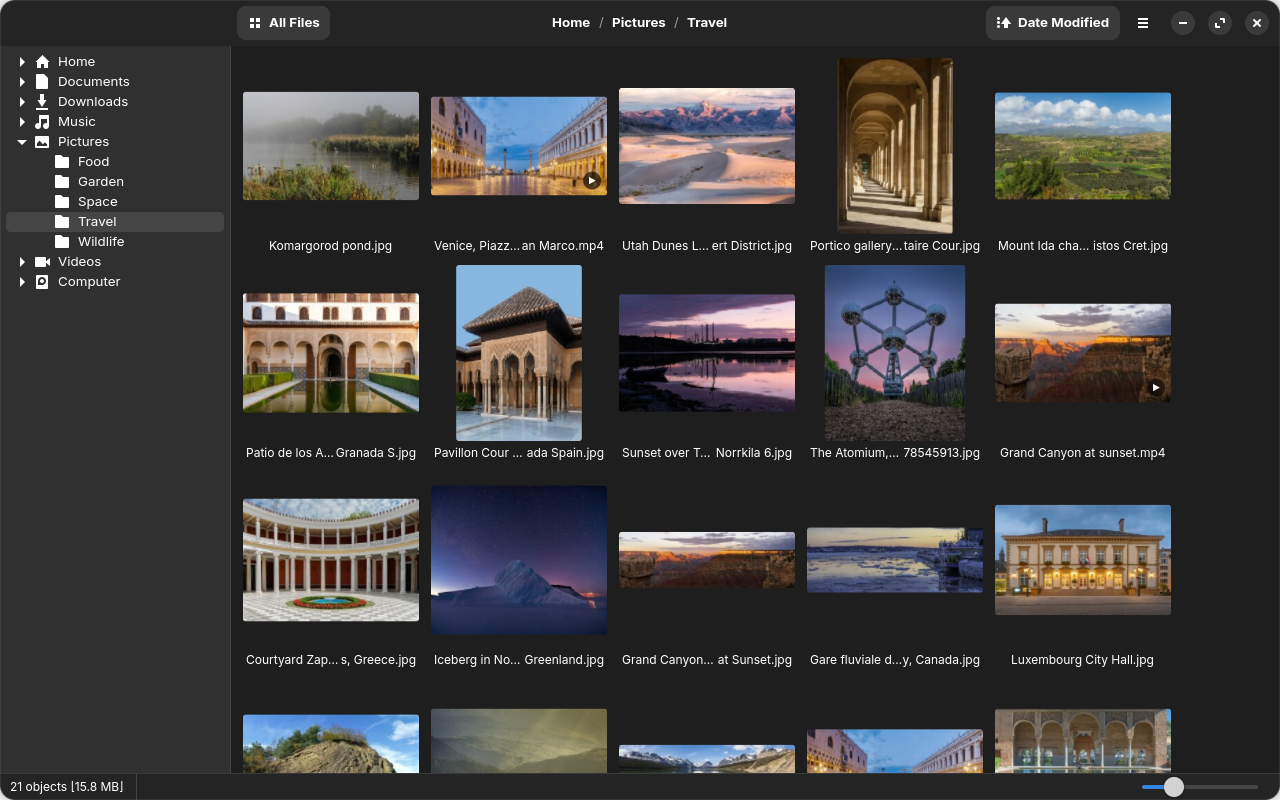
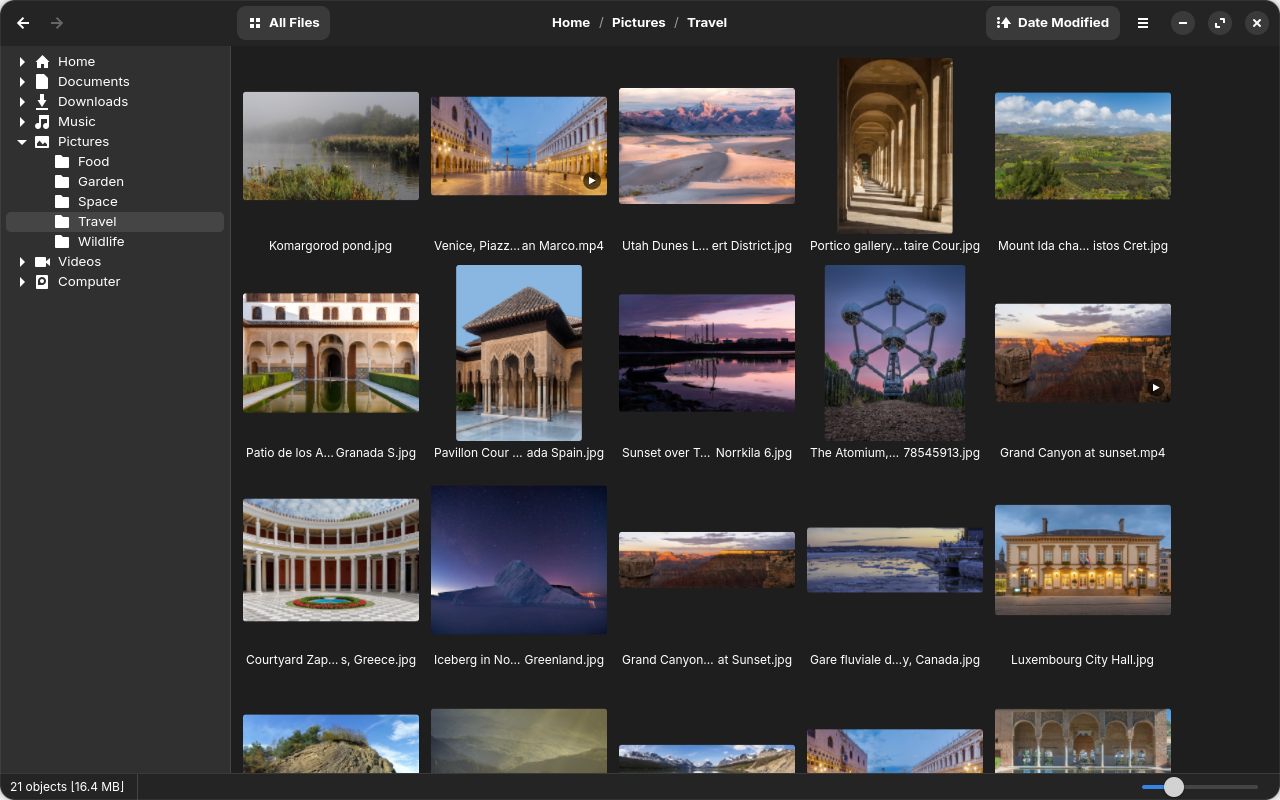
Fix first-launch cache, stray metadata panel, blurry photos opened from outside; new screenshots
- A new thumbnail cache could be disabled for the first session:
  threads opening it together raced on the switch to WAL, which fails at
  once with "database is locked". Set up one connection at a time.
- The fullscreen metadata panel popped up on opening, before the viewer
  had a size; it now needs the pointer over the viewer.
- A photo opened from outside in a small folder could be decoded for a
  1 x 1 screen before the window had a surface (blurry until zoomed);
  fall back to the display's first monitor.
- Screenshots remade with the same Wikimedia Commons photos, showing the
  back and forward buttons.

Changed region(s): [[0.3125, 0.125, 0.5, 0.25], [0.0625, 0.9688, 0.0938, 1.0]]

diff --git a/src/viewer/mod.rs b/src/viewer/mod.rs
@@ -80,6 +80,8 @@ pub struct Viewer {
     /// Item whose camera details the panel holds, and whether it is up.
     camera_for: Cell<u64>,
     camera_up: Cell<bool>,
+    /// The pointer is over the viewer (it has moved there since opening).
+    pointer_in: Cell<bool>,
     /// A RAW item that has stayed on screen a moment, so its development is
     /// worth starting (flicking past RAWs shouldn't tie up the decode threads).
     settled: Cell<u64>,
@@ -166,6 +168,7 @@ impl Viewer {
             show_info: Cell::new(show_info),
             camera_for: Cell::new(0),
             camera_up: Cell::new(false),
+            pointer_in: Cell::new(false),
             settled: Cell::new(0),
             settle_timer: RefCell::default(),
             failed: Cell::new(false),
@@ -281,6 +284,10 @@ impl Viewer {
             timer.remove();
         }
         self.widget.set_cursor(None);
+        self.pointer_in.set(false);
+        if self.camera_up.replace(false) {
+            self.camera.set_visible(false);
+        }
         let item = self.current.take();
         self.cache.borrow_mut().clear();
         self.pool.request(Vec::new());
@@ -716,6 +723,15 @@ impl Viewer {
     /// details; moving left of the panel puts them away.
     fn camera_hover(&self, x: f64) {
         let width = f64::from(self.widget.width());
+        // Only a pointer that is really over the viewer (and a viewer that
+        // has its size): just after opening, the width can still be 0 and
+        // the last pointer position stale, which made the panel pop up.
+        if !self.pointer_in.get() || width <= 0.0 {
+            if self.camera_up.replace(false) {
+                self.camera.set_visible(false);
+            }
+            return;
+        }
         let edge = if self.camera_up.get() {
             width - f64::from(self.camera.width()) - 32.0
         } else {
@@ -896,7 +912,16 @@ impl Viewer {
                 if viewer.pointer.replace((x, y)) != (x, y) {
                     viewer.pointer_moved();
                 }
+                viewer.pointer_in.set(true);
                 viewer.camera_hover(x);
+            }
+        ));
+        motion.connect_leave(glib::clone!(
+            #[weak(rename_to = viewer)]
+            self,
+            move |_| {
+                viewer.pointer_in.set(false);
+                viewer.camera_hover(0.0);
             }
         ));
         self.widget.add_controller(motion);

diff --git a/src/window/fullscreen.rs b/src/window/fullscreen.rs
@@ -3,7 +3,7 @@
 use std::rc::Rc;
 
 use adw::prelude::*;
-use gtk::glib;
+use gtk::{gdk, glib};
 
 use super::Window;
 use crate::model::FileItem;
@@ -66,10 +66,14 @@ impl Window {
     /// The monitor's size in device pixels, which previews are decoded for.
     fn screen_size(&self) -> (u32, u32) {
         let display = WidgetExt::display(&self.window);
+        // A file opened from outside can reach the viewer before the window
+        // is on screen, with no surface (and no size) yet: then take the
+        // first monitor, not a 1 x 1 "screen" (a blurry 1/8-scale preview).
         let monitor = self
             .window
             .surface()
-            .and_then(|surface| display.monitor_at_surface(&surface));
+            .and_then(|surface| display.monitor_at_surface(&surface))
+            .or_else(|| display.monitors().item(0).and_downcast::<gdk::Monitor>());
         let (width, height, scale) = match monitor {
             Some(monitor) => {
                 let geometry = monitor.geometry();

diff --git a/src/cache.rs b/src/cache.rs
@@ -7,7 +7,7 @@
 use std::collections::HashMap;
 use std::os::unix::ffi::{OsStrExt, OsStringExt};
 use std::path::{Path, PathBuf};
-use std::sync::mpsc;
+use std::sync::{Mutex, mpsc};
 use std::time::{Duration, Instant};
 
 use gtk::glib;
@@ -64,6 +64,13 @@ pub fn path() -> PathBuf {
 }
 
 pub fn open() -> rusqlite::Result<Connection> {
+    // Several threads open the cache at startup. On a new cache file the
+    // switch to WAL needs the database to itself and fails at once with
+    // "database is locked" (the busy timeout doesn't apply) while another
+    // thread is setting up, which disabled the cache for a first session.
+    // One at a time, it's a no-op for all but the first.
+    static SETUP: Mutex<()> = Mutex::new(());
+    let _setup = SETUP.lock().unwrap_or_else(|e| e.into_inner());
     let path = path();
     if let Some(dir) = path.parent() {
         let _ = std::fs::create_dir_all(dir);
